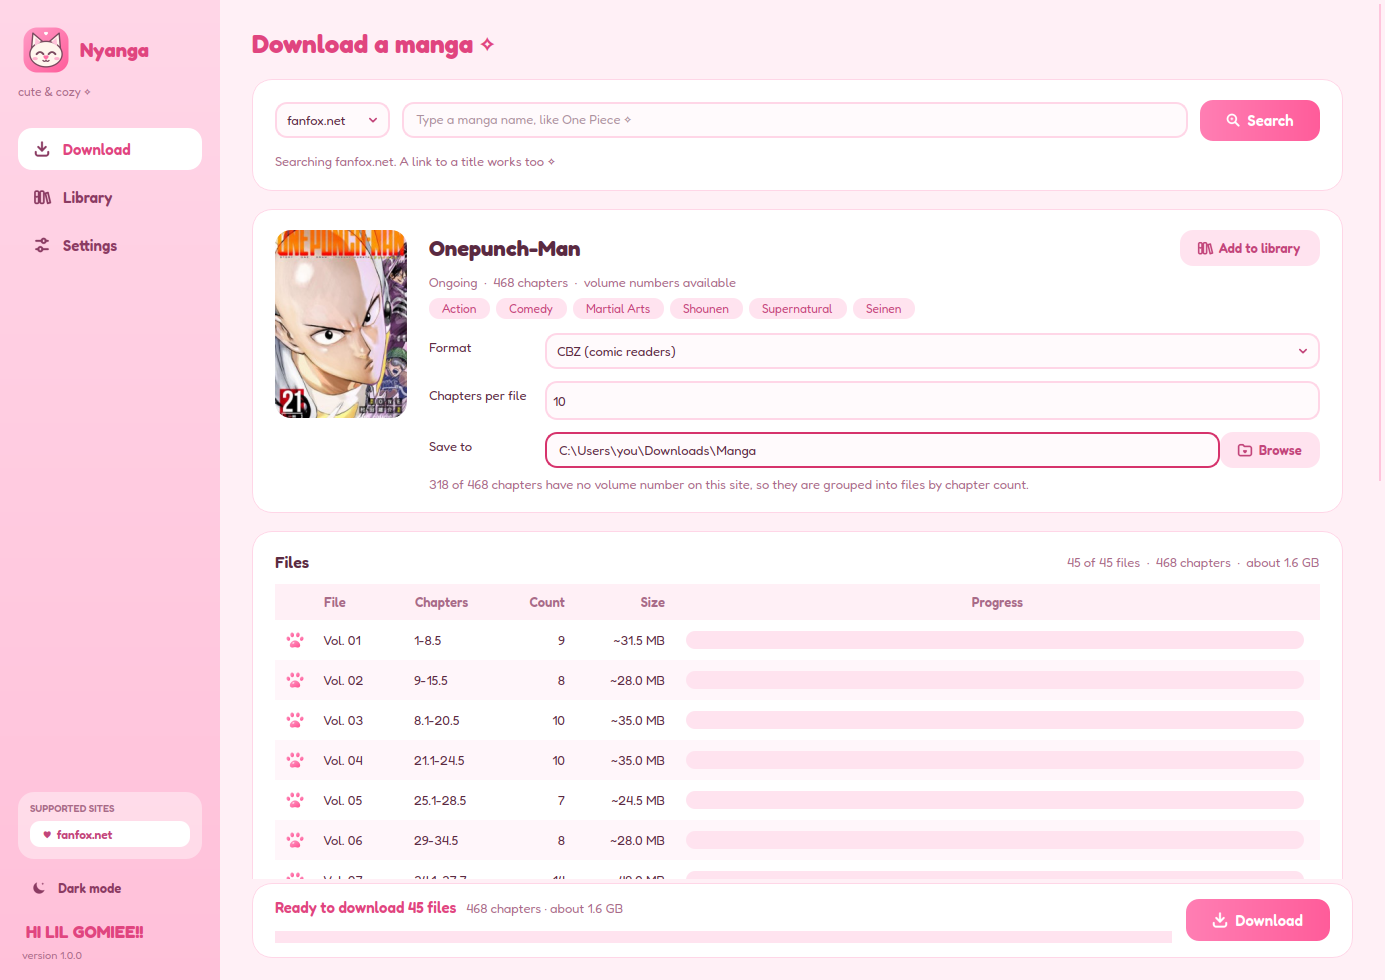
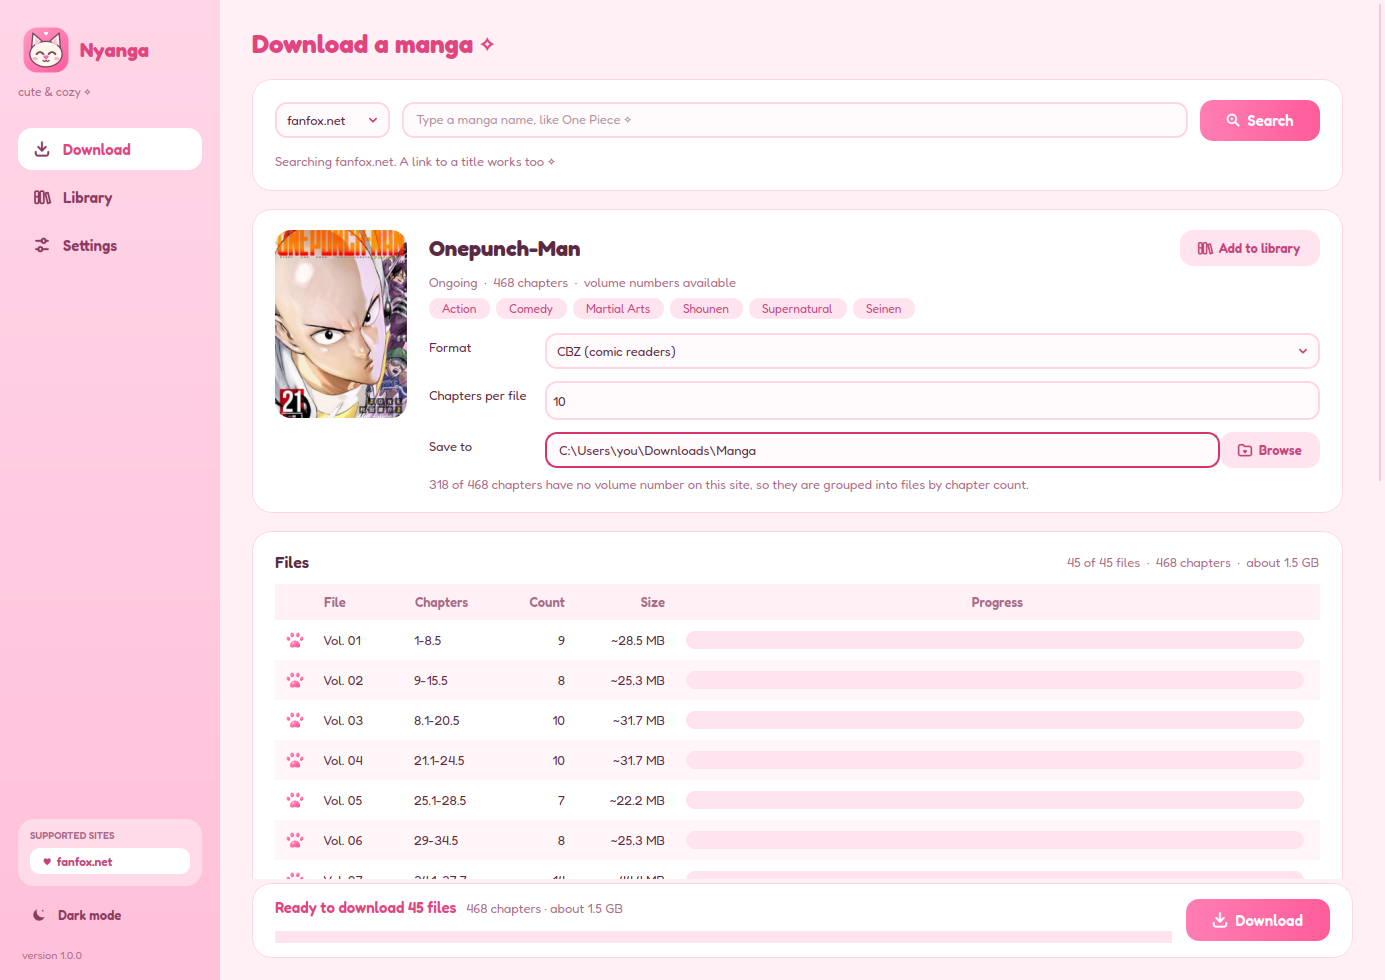
fix: only show the sidebar greeting to thevi
The "HI LIL GOMIEE!!" line in the sidebar now only appears for the friend it was written for.

Changed region(s): [[0.0, 0.7959, 0.1552, 0.9796], [0.4347, 0.7653, 0.4657, 0.8265], [0.4347, 0.6735, 0.4657, 0.7041]]

diff --git a/gui.py b/gui.py
@@ -2,6 +2,7 @@
 
 from __future__ import annotations
 
+import getpass
 import html
 import json
 import math
@@ -58,6 +59,14 @@ def swap_icon(button: QPushButton, name: str) -> None:
 def _paint_icon(button: QPushButton, name: str, color_key: str) -> None:
     color = "#ffffff" if color_key == "white" else theme.color(CURRENT["mode"], color_key)
     button.setIcon(theme.icon(name, color))
+
+
+def greeted() -> bool:
+    """The sidebar says hi only to the friend Nyanga was made for (their Windows user name)."""
+    try:
+        return getpass.getuser().casefold() == "thevi"
+    except Exception:  # no user name to be found
+        return False
 
 
 def repolish(widget: QWidget) -> None:
@@ -2433,7 +2442,8 @@ class MainWindow(QWidget):
         self.toggle.clicked.connect(self._toggle_theme)
         sl.addWidget(self.toggle)
         sl.addSpacing(10)
-        sl.addWidget(label("HI LIL GOMIEE!!", "greeting"))
+        if greeted():
+            sl.addWidget(label("HI LIL GOMIEE!!", "greeting"))
         version = QPushButton(f"version {__version__}", objectName="version")
         version.setCursor(Qt.PointingHandCursor)
         version.setToolTip("What's new in this version ✧")
